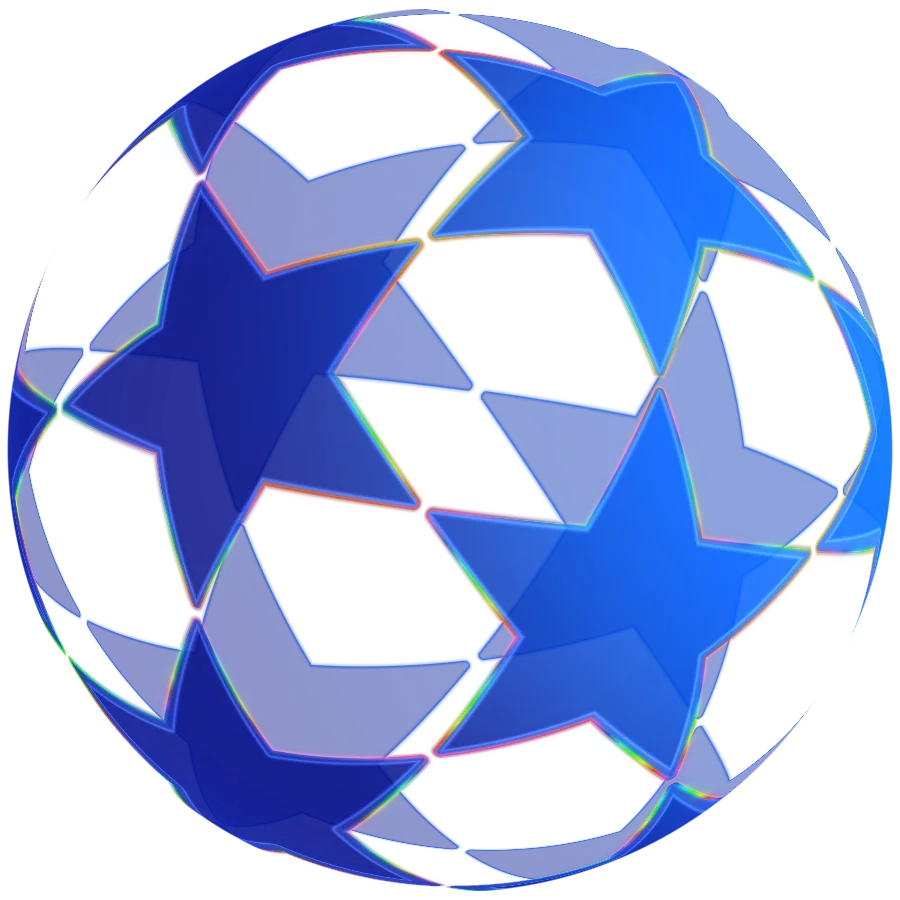
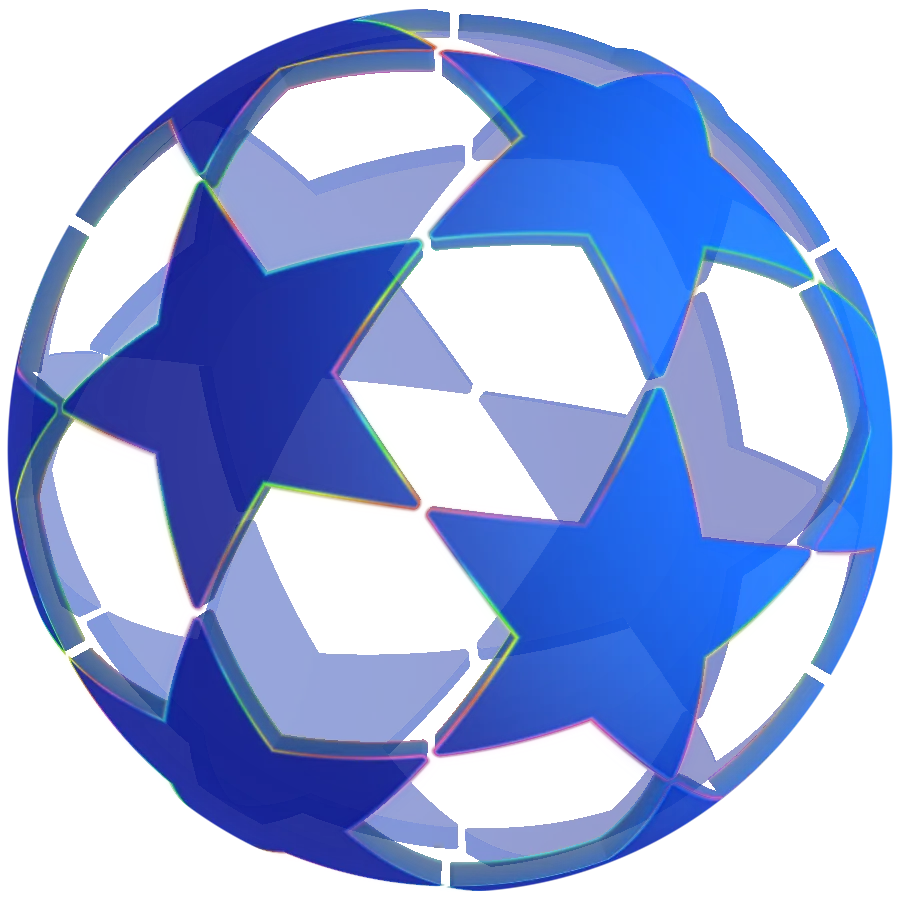
Star ball: real glass slabs, reflections on their edges
The stars had no thickness: a pale line drawn inside every edge stood in
for it, so a star at the silhouette looked flat and the fake line read as
a second edge. Each star is now a solid slab between two spheres, and the
shader marches every pixel's view ray through the shell to the first slab
it meets, on its face or its side wall. The walls show where they really
would, towards the silhouette, as translucent bands of glass. The coloured
hairlines are reflections on the slabs' cut edges, outer and inner.

Thirty frames a second and a lower pixel-ratio cap keep the heavier shader
light on phones. The still is re-rendered from it.

diff --git a/public/js/lib/starball.js b/public/js/lib/starball.js
@@ -9,17 +9,19 @@
  * lays the point out flat around it and asks how far it is from a five-point
  * star there. The answer gives the panel, the seam and the glow along it.
  *
- * Only the stars are glass. The holes between them are empty, so the page
- * shows through them, and so do the stars on the far side, seen from behind.
+ * Only the stars are glass, and each is a solid slab with real thickness:
+ * the shader marches every pixel's view ray through the shell and finds the
+ * first slab it meets, on its broad face or on its side wall, so the walls
+ * show where they would (towards the silhouette, a star seen edge-on is a
+ * band of glass, not a line). The holes between the stars are empty: the
+ * page shows through them, and so do the stars on the far side.
  * The look, layer by layer:
- *   - the far side's stars, dimmer and bluer, through the holes and through
- *     the near stars' glass;
- *   - the near stars, glass slabs: royal blue, bright along the inside of
- *     their edges where the glass is seen through its thickness;
- *   - their outlines, a hairline of light whose colour shifts with the angle
- *     like oil on water (a thin-film cheat: a cosine palette);
- *   - a studio softbox reflected top left, a hard specular, and iridescence
- *     where the glass turns away.
+ *   - the far side's stars, dimmer, through the holes and the near glass;
+ *   - the near slabs: their faces lit from the right, dark on the left and
+ *     bright azure on the right; their walls translucent, lighter towards the
+ *     outer face;
+ *   - reflections on the cut edges, where face turns into wall: hairlines of
+ *     light, each stretch its own colour, split slightly as by a prism.
  *
  * A reader without WebGL, or who asked for less motion, gets one still frame
  * (the image the page shows first anyway, public/brand/starball.webp).
@@ -93,6 +95,42 @@ vec3 film(float x) {
   return 0.55 + 0.45 * cos(6.2831 * (x + vec3(0.0, 0.33, 0.67)));
 }
 
+// The slabs as a solid: inside where a point is between the two spheres and
+// inside a star. A conservative distance (the star's distance is in tangent
+// units, which run long away from the centre) so a march never steps
+// through a wall.
+const float T = 0.055;     // the glass's thickness, as a share of the radius
+float solid(vec3 x) {
+  float l = length(x);
+  return field(uRot * (x / l)).x * l * 0.7;
+}
+vec3 wallNormal(vec3 x) {
+  const float e = 0.0015;
+  float d = solid(x);
+  return normalize(vec3(solid(x + vec3(e, 0.0, 0.0)) - d, solid(x + vec3(0.0, e, 0.0)) - d, solid(x + vec3(0.0, 0.0, e)) - d));
+}
+
+// Down the view ray (straight into the screen) through one stretch of the
+// shell, from z0 to z1: the first point inside a slab. Returns the depth and
+// what was hit: 1 the slab's broad face (the ray met glass the moment it met
+// the shell), 2 its side wall, 0 nothing.
+vec2 march(vec2 xy, float z0, float z1) {
+  float z = z0;
+  for (int i = 0; i < 28; i++) {
+    float d = solid(vec3(xy, z));
+    if (d < 0.0) return vec2(z, i == 0 ? 1.0 : 2.0);
+    z -= max(d, 0.0012);
+    if (z < z1) break;
+  }
+  return vec2(0.0, 0.0);
+}
+
+vec3 prismHue(vec3 p) {
+  float phase = dot(p, vec3(2.3, 1.7, 2.9));
+  vec3 h = clamp(abs(fract(phase + vec3(0.0, 0.67, 0.33)) * 6.0 - 3.0) - 1.0, 0.0, 1.0);
+  return mix(h, vec3(0.62, 1.0, 0.08), 0.3); // lean towards lime, as the original does
+}
+
 void main() {
   vec2 xy = vUv / uScale;
   float r = length(xy);
@@ -102,69 +140,89 @@ void main() {
   // barely lighter than it to a bright azure where the light falls.
   vec3 dim = vec3(0.012, 0.03, 0.50);
   vec3 azure = vec3(0.02, 0.36, 0.92);
-  vec3 pale = vec3(0.35, 0.58, 1.0);
-
-  float z = sqrt(max(0.0, 1.0 - r * r));
-  vec3 n = vec3(xy, z);    // the near side, facing us
-  vec3 nb = vec3(xy, -z);  // the far side, seen through the holes
-  float edgeOn = 1.0 - z;  // 0 facing us, 1 at the silhouette
+  vec3 pale = vec3(0.4, 0.62, 1.0);
   vec3 L = normalize(vec3(0.85, 0.2, 0.5)); // the light is off to the right
-  float lit = smoothstep(-0.15, 0.95, dot(n, L));
 
-  // The far side: the backs of the stars, through the holes and through the
-  // near glass. Barely lighter than the night, with pale hairline edges.
-  vec2 g = field(uRot * nb);
-  float inB = smoothstep(uPx, -uPx, g.x);
-  float lineB = exp(-pow(g.x / (uPx * 1.4 + 0.0025), 2.0));
-  vec3 back = mix(dim, azure, 0.15 + 0.35 * lit) * inB * 0.45 + pale * lineB * 0.45;
-  float backA = inB * 0.45 + lineB * 0.45;
+  float ri = 1.0 - T;
+  float zo = sqrt(max(0.0, 1.0 - r * r));
+  bool through = r < ri;                 // the ray crosses the hollow inside
+  float zi = through ? sqrt(ri * ri - r * r) : 0.0;
 
-  // The near side: glass slabs. The face takes the light from the right;
-  // the slab's thickness shows as a lighter band inside every edge, wider
-  // where the glass turns away (seen more side-on), closed by a second
-  // hairline where the back face's edge shows through.
-  vec2 f = field(uRot * n);
-  float inN = smoothstep(uPx, -uPx, f.x);
-  float depth = -f.x;
-  float band = 0.01 + 0.05 * pow(edgeOn, 1.4);
-  float side = smoothstep(band + uPx, band - uPx, depth) * inN;
-  float backEdge = exp(-pow((depth - band) / (uPx * 1.3 + 0.002), 2.0)) * inN;
-  vec3 face = mix(dim, azure, 0.06 + 0.94 * pow(lit, 1.4));
-  face += azure * 0.25 * pow(max(0.0, dot(n, L)), 4.0);      // the wash on the lit side
-  face += pale * 0.18 * pow(edgeOn, 3.0);                      // glass gets brighter edge-on
-  vec3 sideC = mix(face, pale, 0.2 + 0.25 * lit);
-  vec3 front = mix(face, sideC, side) + pale * backEdge * 0.35;
-  float frontA = inN * (0.82 + 0.12 * edgeOn);
+  // The near shell, then (through the hollow) the far one.
+  vec2 hn = march(xy, zo, through ? zi : -zo);
+  vec2 hf = through ? march(xy, -zi, -zo) : vec2(0.0);
 
-  // The cut edge: a hairline of light split as if through a prism. Each
-  // stretch of edge has its own colour, mostly lime and yellow with red,
-  // magenta and cyan between, and its own brightness, so the colour walks
-  // along the edges as the ball turns. A slight fringe either side.
-  vec3 pn = uRot * n;
-  float phase = dot(pn, vec3(2.3, 1.7, 2.9)) + 0.6 * edgeOn;
-  vec3 hue = clamp(abs(fract(phase + vec3(0.0, 0.67, 0.33)) * 6.0 - 3.0) - 1.0, 0.0, 1.0);
-  hue = mix(hue, vec3(0.62, 1.0, 0.08), 0.3);  // lean towards lime, as the original does
-  float w = uPx * 1.5 + 0.0022;
-  float fringe = uPx * 1.4 + 0.003 * edgeOn;
-  float lG = exp(-pow(f.x / w, 2.0));
-  float lR = exp(-pow((f.x - fringe) / w, 2.0));
-  float lB = exp(-pow((f.x + fringe) / w, 2.0));
-  float strength = (0.55 + 0.45 * smoothstep(-0.3, 0.7, sin(dot(pn, vec3(3.7, -2.9, 2.2))))) * min(1.0, 0.8 + 0.5 * edgeOn);
+  vec3 col = vec3(0.0);
+  float a = 0.0;
 
-  vec3 col = front * frontA + back * (1.0 - frontA);
-  float a = frontA + backA * (1.0 - frontA);
-  // The edge is painted, not added, so it keeps its colour instead of
-  // washing out to white: the fringes first, then the core over them.
-  float kR = lR * 0.45 * strength, kB = lB * 0.6 * strength, kG = lG * strength;
+  // The far side first: the backs of the stars, seen from inside the ball.
+  if (hf.y > 0.0) {
+    vec3 x = vec3(xy, hf.x);
+    vec3 nrm = hf.y > 1.5 ? wallNormal(x) : -normalize(x);
+    float lit = smoothstep(-0.3, 1.0, dot(-normalize(x), L));
+    vec3 c = mix(dim, azure, 0.1 + 0.3 * lit);
+    float fa = 0.42;
+    if (hf.y > 1.5) { c = mix(c, pale, 0.25); fa = 0.55; }
+    col = c * fa;
+    a = fa;
+  }
+
+  if (hn.y > 0.0) {
+    vec3 x = vec3(xy, hn.x);
+    vec3 n = normalize(x);
+    float lit = smoothstep(-0.15, 0.95, dot(n, L));
+    vec3 c;
+    float fa;
+    if (hn.y < 1.5) {
+      // The broad face: lit from the right, brighter edge-on.
+      c = mix(dim, azure, 0.06 + 0.94 * pow(lit, 1.4));
+      c += azure * 0.25 * pow(max(0.0, dot(n, L)), 4.0);
+      c += pale * 0.15 * pow(1.0 - n.z, 3.0);
+      fa = 0.8 + 0.12 * (1.0 - n.z);
+    } else {
+      // The side wall: the glass seen through its thickness, lighter and
+      // shaded by which way it faces.
+      vec3 w = wallNormal(x);
+      float wl = max(0.0, dot(w, L));
+      float h = clamp((length(x) - ri) / T, 0.0, 1.0); // 0 at the inner face, 1 at the outer
+      c = mix(azure * (0.5 + 0.5 * lit), pale, 0.04 + 0.22 * wl);
+      c *= 0.65 + 0.45 * h;
+      fa = 0.62 + 0.2 * h;
+    }
+    col = c * fa + col * (1.0 - fa);
+    a = fa + a * (1.0 - fa);
+  }
+
+  // The reflections: hairlines of light on the slabs' cut edges, where the
+  // face turns into the wall. The outer edge is where the ray meets the
+  // outer sphere at a star's outline; the inner edge is where a wall meets
+  // the inner face, seen only where the wall shows (towards the silhouette).
+  // Each stretch has its own colour, split slightly like light through a
+  // prism.
+  vec3 xo = vec3(xy, zo);
+  vec3 po = uRot * xo;
+  float fo = field(po).x;
+  float w = uPx * 1.3 + 0.0018;
+  float fringe = uPx * 1.3 + 0.0025 * (1.0 - zo);
+  float glint = (0.55 + 0.45 * smoothstep(-0.3, 0.7, sin(dot(po, vec3(3.7, -2.9, 2.2))))) * min(1.0, 0.8 + 0.5 * (1.0 - zo));
+  vec3 hue = prismHue(po + 0.6 * (1.0 - zo));
+  float kG = exp(-pow(fo / w, 2.0)) * glint;
+  float kR = exp(-pow((fo - fringe) / w, 2.0)) * glint * 0.45;
+  float kB = exp(-pow((fo + fringe) / w, 2.0)) * glint * 0.6;
+  if (hn.y > 1.5) {
+    // The inner edge of a wall the ray hit.
+    float k = exp(-pow((length(vec3(xy, hn.x)) - ri) / (uPx * 1.6 + 0.002), 2.0)) * glint * 0.85;
+    kG = max(kG, k);
+  }
   col = mix(col, vec3(1.0, 0.12, 0.38) * max(a, kR), kR);
   col = mix(col, vec3(0.08, 0.55, 1.0) * max(a, kB), kB);
   a = max(a, max(kR, kB));
   a = max(a, kG);
   col = mix(col, hue * a, kG);
-  // And the light it throws onto the glass around it.
-  float halo = exp(-abs(f.x) / (0.006 + 0.01 * edgeOn)) * 0.4 * strength * (1.0 - kG);
+  float halo = exp(-abs(fo) / (0.006 + 0.01 * (1.0 - zo))) * 0.35 * glint * (1.0 - kG);
   col += hue * halo;
   a = clamp(a + halo * 0.6, 0.0, 1.0);
+
   col = min(col, vec3(1.0));
   float disc = smoothstep(1.0, 1.0 - uPx * 2.0, r);
   gl_FragColor = vec4(min(col, vec3(a)) * disc, a * disc);
@@ -227,7 +285,7 @@ export function startBall(canvas, { still = false, speed = 0.12, t: t0 = 0 } = {
 
   const size = () => {
     const box = canvas.getBoundingClientRect();
-    const side = Math.min(1100, Math.round(Math.max(box.width, 1) * Math.min(devicePixelRatio || 1, 1.5)));
+    const side = Math.min(1100, Math.round(Math.max(box.width, 1) * Math.min(devicePixelRatio || 1, 1.25)));
     if (canvas.width !== side) { canvas.width = side; canvas.height = side; }
     gl.viewport(0, 0, side, side);
     gl.uniform1f(uScale, SCALE);
@@ -241,10 +299,13 @@ export function startBall(canvas, { still = false, speed = 0.12, t: t0 = 0 } = {
     gl.clear(gl.COLOR_BUFFER_BIT);
     gl.drawArrays(gl.TRIANGLE_STRIP, 0, 4);
   };
+  // Thirty frames a second is plenty for a slow sway, and halves the work
+  // of a shader that marches every pixel through the glass.
   const frame = (now) => {
     raf = 0;
     if (stopped) return;
-    if (last) t += Math.min(0.05, (now - last) / 1000) * speed;
+    if (last && now - last < 31) { raf = requestAnimationFrame(frame); return; }
+    if (last) t += Math.min(0.1, (now - last) / 1000) * speed;
     last = now;
     draw();
     if (onScreen && !document.hidden) raf = requestAnimationFrame(frame);
